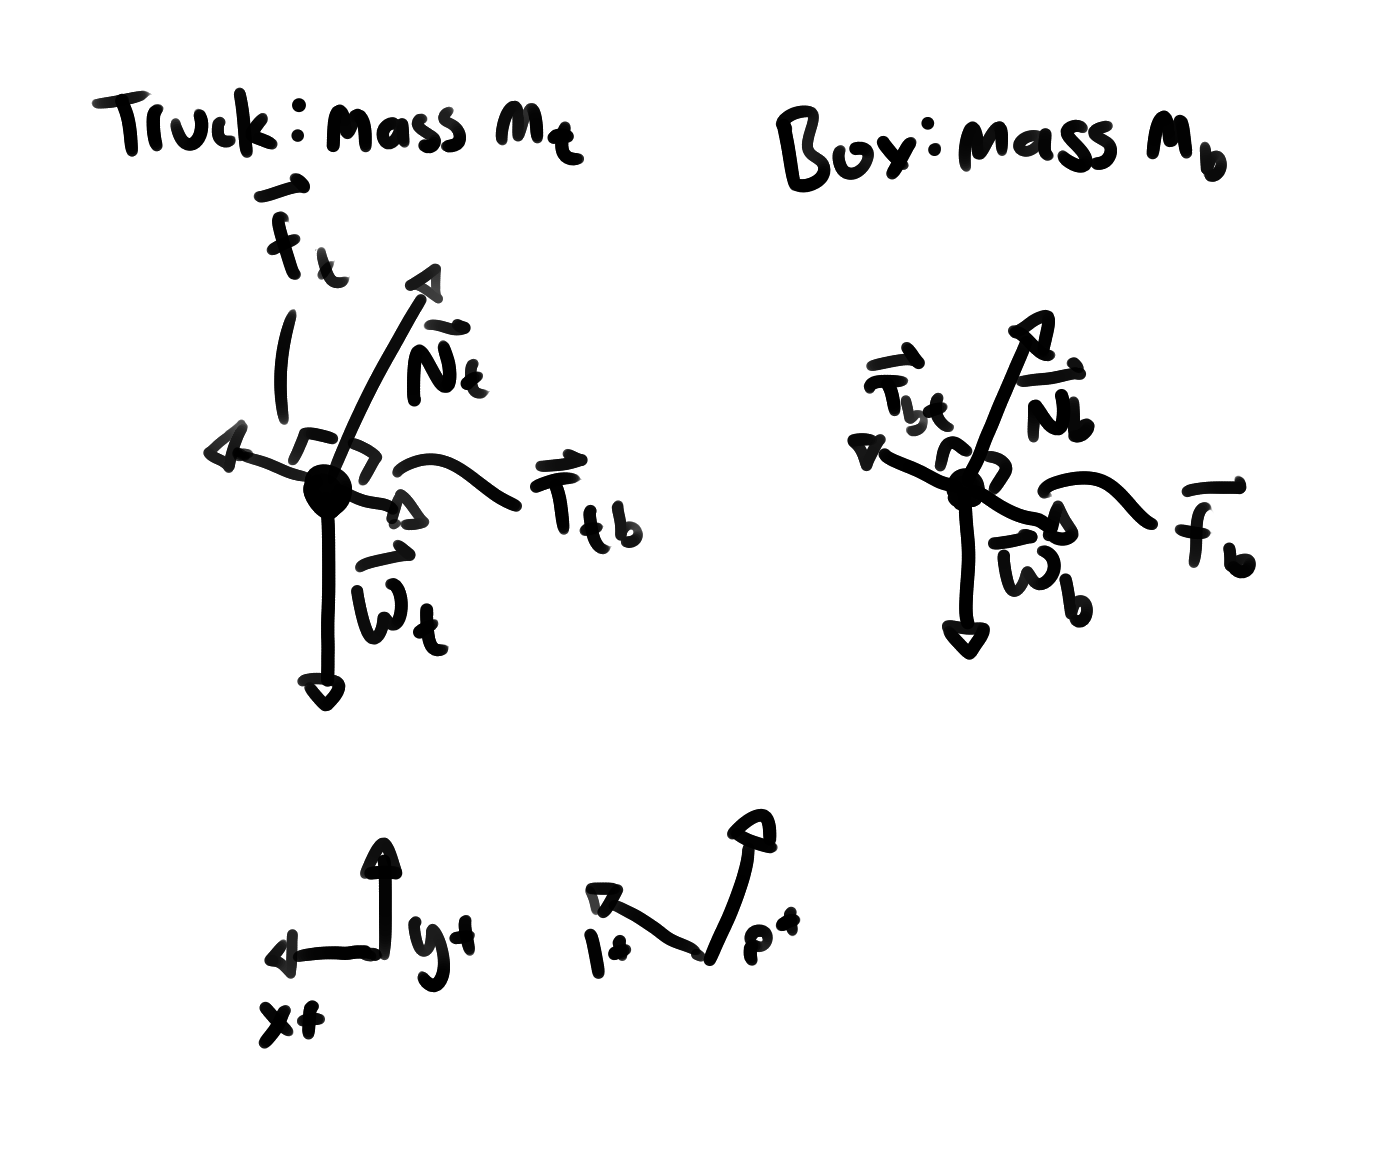
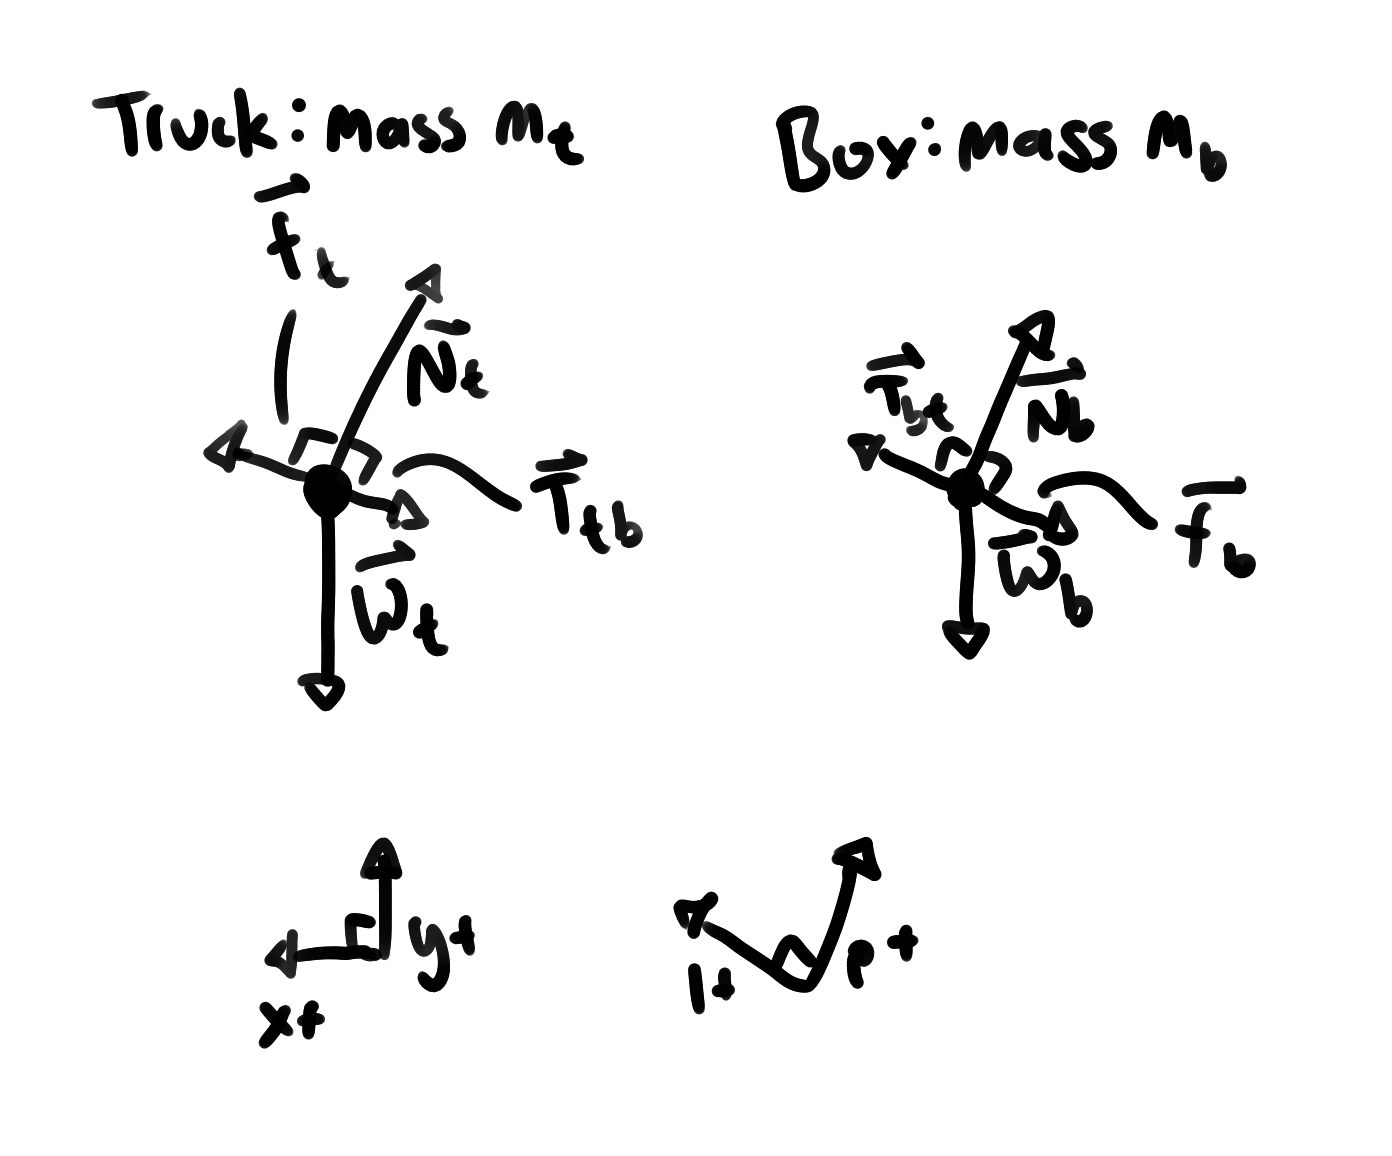
vault backup: 2024-03-03 17:26:32

Changed region(s): [[0.4016, 0.6851, 0.6796, 0.872], [0.2471, 0.7785, 0.278, 0.8097]]

diff --git a/PHYS 121 - Physics 1/HW/5/5.md b/PHYS 121 - Physics 1/HW/5/5.md
@@ -7,8 +7,7 @@ A truck pulls a box up a ramp at a constant given constant acceleration $A$ as s
 Draw a careful Free Body Diagram for both the truck and the box. Include a proper coordinate system and be sure to indicate every force on each body. Make very sure you have each force clearly and properly labeled. At this time we expect all students use the format and notation given in this class for every FBD.
 
 > [!answer]
-> ![[jxl]]
-> ![[Pasted image 20240303171900.png]]
+> ![[PHYS 121 - Physics 1/HW/5/images/1a.png]]
 
 ## b
 
@@ -16,5 +15,5 @@ In terms of given parameters $A$, $mt$ , $mb$ , $\mu$ and $\theta$, determine th
 
 > [!answer]
 > $W_t=m_tg$ N2L
-> $W_b=m_bg$ N2l
+> $W_b=m_bg$ N2L
 > $$
